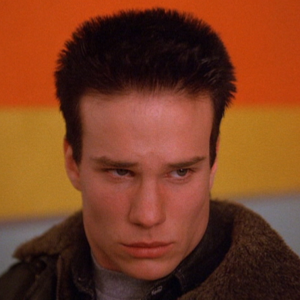
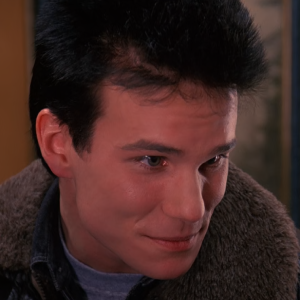
- Updated for episode 10 - Various past updates - Changed James' episode 1 picture - Fixed bug with Bob and Log Lady's entries

diff --git a/data.js b/data.js
@@ -36,7 +36,7 @@ const baseNodes = [
     },
     {
         id: "donna_hayward", label: "Donna Hayward", type: NODE_TYPES.PERSON,
-        images: { 1: "donna_hayward", 2: "donna_hayward_1x02", "4_only": "donna_hayward_1x04", 9: "donna_hayward_2x01" }
+        images: { 1: "donna_hayward", 2: "donna_hayward_1x02", "4_only": "donna_hayward_1x04", 8: "donna_hayward_1x08", 9: "donna_hayward_2x01" }
     },
     {
         id: "james_hurley", label: "James Hurley", type: NODE_TYPES.PERSON,
@@ -44,7 +44,7 @@ const baseNodes = [
     },
     {
         id: "bobby_briggs", label: "Bobby Briggs", type: NODE_TYPES.PERSON,
-        images: { 1: "bobby_briggs", "4_only": "bobby_briggs_1x04" }
+        images: { 1: "bobby_briggs", "4_only": "bobby_briggs_1x04", "8_only": "bobby_briggs_1x08" },
     },
     {
         id: "leland_palmer", label: "Leland Palmer", type: NODE_TYPES.PERSON,
@@ -56,12 +56,12 @@ const baseNodes = [
     },
     {
         id: "pete_martell", label: "Pete Martell", type: NODE_TYPES.PERSON,
-        images: { 1: "pete_martell", "4_only": "pete_martell_1x04" }
+        images: { 1: "pete_martell", "4_only": "pete_martell_1x04", 8: "pete_martell_1x08", 9: "pete_martell_2x01" }
     },
     {
         id: "dr_jacoby", type: NODE_TYPES.PERSON,
         labels: { 1: "Dr. Jacoby", 8: "Dr. Lawrence Jacoby" },
-        images: { 1: "dr_jacoby", 4: "dr_jacoby_1x04", 5: "dr_jacoby_1x05" }
+        images: { 1: "dr_jacoby", 4: "dr_jacoby_1x04", 5: "dr_jacoby_1x05", 8: "dr_jacoby_1x08" }
     },
     {
         id: "johnny_horne", label: "Johnny Horne", type: NODE_TYPES.PERSON,
@@ -77,7 +77,7 @@ const baseNodes = [
     {
         id: "ed_hurley", type: NODE_TYPES.PERSON,
         labels: { 1: "Ed", 2: "Ed Hurley" },
-        images: { "1": "big_ed", "4_only": "big_ed_1x04", "7_only": "big_ed_1x07" }
+        images: { "1": "big_ed", "4_only": "big_ed_1x04", "7_only": "big_ed_1x07", 10: "big_ed_2x02" }
     },
     { id: "mike_nelson", label: "Mike 'Snake'", image: "mike_snake_nelson", type: NODE_TYPES.PERSON },
     {
@@ -88,19 +88,31 @@ const baseNodes = [
         id: "norma_jennings", image: "norma_jennings", type: NODE_TYPES.PERSON,
         labels: { 1: "Norma", 2: "Norma Jennings" },
     },
-    { id: "shelly_johnson", label: "Shelly Johnson", image: "shelly_johnson", type: NODE_TYPES.PERSON },
+    {
+        id: "shelly_johnson", label: "Shelly Johnson", type: NODE_TYPES.PERSON,
+        images: { 1: "shelly_johnson", 8: "shelly_johnson_1x08", 9: "shelly_johnson_2x01" },
+    },
     {
         id: "hank_jennings", type: NODE_TYPES.PERSON,
         labels: { 1: "Hank\n(in prison\nfor manslaughter)", 2: "Hank Jennings\n(in prison\nfor manslaughter)", 4: 'Hank Jennings' },
-        images: { 4: "hank_jennings_mugshot", 5: "hank_jennings", 9: "hank_jennings_2x01" }
+        images: { 4: "hank_jennings_mugshot", 5: "hank_jennings", 8: "hank_jennings_1x08", 9: "hank_jennings_2x01" }
     },
-    { id: "leo_johnson", label: "Leo Johnson", image: "leo_johnson", type: NODE_TYPES.PERSON },
-    { id: "major_briggs", label: "Major Briggs", image: "major_briggs", type: NODE_TYPES.PERSON },
+    {
+        id: "leo_johnson", label: "Leo Johnson", type: NODE_TYPES.PERSON,
+        images: { 1: "leo_johnson", 8: "leo_johnson_1x08", 10: "leo_johnson_2x02" },
+    },
+    {
+        id: "major_briggs", image: "major_briggs", type: NODE_TYPES.PERSON,
+        labels: { 1: "Major Briggs", 10: "Major\nGarland Briggs" }
+    },
     {
         id: "catherine_martell", label: "Catherine Martell\n(née Packard)", type: NODE_TYPES.PERSON,
-        images: { 1: "catherine_martell", "2_only": "catherine_martell_1x02", "6_only": "catherine_martell_1x06" }
+        images: { 1: "catherine_martell", "2_only": "catherine_martell_1x02", "6_only": "catherine_martell_1x06", 8: "catherine_martell_1x08" },
     },
-    { id: "josie_packard", label: "Josie Packard", image: "josie_packard", type: NODE_TYPES.PERSON },
+    {
+        id: "josie_packard", label: "Josie Packard", type: NODE_TYPES.PERSON,
+        images: { 1: "josie_packard", 8: "josie_packard_1x08" },
+    },
     {
         id: "doc_hayward", image: "doc_hayward", type: NODE_TYPES.PERSON,
         labels: { 1: "Doc Hayward", 8: "Doc Will Hayward" }
@@ -108,9 +120,12 @@ const baseNodes = [
     { id: "benjamin_horne", label: "Benjamin Horne", image: "benjamin_horne", type: NODE_TYPES.PERSON },
     {
         id: "audrey_horne", label: "Audrey Horne", type: NODE_TYPES.PERSON,
-        images: { 1: "audrey_horne_pilot", 2: "audrey_horne_1x02", "4_only": "audrey_horne_1x04", 8: "audrey_horne_1x08", 9: "audrey_horne_2x01" }
+        images: { 1: "audrey_horne_pilot", 2: "audrey_horne_1x02", "4_only": "audrey_horne_1x04", 8: "audrey_horne_1x08", 9: "audrey_horne_2x01", 10: "audrey_horne_2x02" }
     },
-    { id: "ronette_pulaski", label: "Ronette Pulaski", image: "ronette_pulaski", type: NODE_TYPES.PERSON },
+    {
+        id: "ronette_pulaski", label: "Ronette Pulaski", type: NODE_TYPES.PERSON,
+        images: { 1: "ronette_pulaski", 9: "ronette_pulaski_2x01" },
+    },
     { id: "fire_walk_with_me", label: "'FIRE WALK WITH ME'", image: "fire_walk_with_me", type: NODE_TYPES.CONCEPT },
     { id: "ten_thousand_cash", label: "$10,000 cash", type: NODE_TYPES.OBJECT },
     { id: "flesh_world", label: "'Flesh World' magazine", image: "flesh_world", type: NODE_TYPES.OBJECT },
@@ -137,7 +152,10 @@ const baseNodes = [
         labels: { 1: "One armed man?", 5: "Phillip Michael Gerard,\nshoe salesman" },
         images: { 1: "one_armed_man", 5: "phillip_michael_gerard" }
     },
-    { id: "harriet_hayward", label: "Harriet Hayward", type: NODE_TYPES.PERSON, image: "harriet_hayward" },
+    {
+        id: "harriet_hayward", label: "Harriet Hayward", type: NODE_TYPES.PERSON,
+        images: { 1: "harriet_hayward", 9: "harriet_hayward_2x01" }
+    },
     {
         id: "eileen_hayward", label: "Eileen Hayward", type: NODE_TYPES.PERSON,
         images: { 1: "eileen_hayward_pilot", 2: "eileen_hayward_1x02" }
@@ -163,13 +181,13 @@ const baseNodes = [
         images: { 4: "jacques_renault", 7: "jacques_renault_1x07" }
     },
     {
-        id: "bob", type: NODE_TYPES.PERSON, episode: "2",
+        id: "bob", type: NODE_TYPES.PERSON, episode: 2,
         labels: { 2: "???", 3: "Bob?" },
-        images: { 2: "bob_1x02", 3: "bob_1x03", 9: "bob_2x01" }
+        images: { 2: "bob_1x02", 3: "bob_1x03", 9: "bob_2x01", 10: "bob_2x02" },
     },
     { id: "hornes_department_store", type: NODE_TYPES.PLACE, episode: 2, label: "Horne's\ndepartment store\n(perfume counter)" },
     {
-        id: "log_lady", type: NODE_TYPES.PERSON, episode: "2",
+        id: "log_lady", type: NODE_TYPES.PERSON, episode: 2,
         labels: { 2: "Log Lady", 6: "Margaret\nthe Log Lady" },
         images: { 2: "log_lady", "4_only": "log_lady_1x04" }
     },
@@ -240,7 +258,8 @@ const baseNodes = [
     { id: "red_drapes_ad", label: "Flesh World\n'red drapes' ad", image: "red_drapes_ad", type: NODE_TYPES.CONCEPT, episode: 6 },
     { id: "teen_investigators", label: "Teen Murder\nInvestigation Team", type: NODE_TYPES.CONCEPT, episode: 6 },
     {
-        id: "owls", image: "owl", type: NODE_TYPES.CONCEPT, episode: 6,
+        id: "owls", type: NODE_TYPES.CONCEPT, episode: 6,
+        images: { 6: "owl", 10: "owl_2x02" },
         labels: { 6: "Owls", 9: "'The owls are\nnot what they seem'" }
     },
     {
@@ -262,16 +281,27 @@ const baseNodes = [
     { id: "giant", label: "???", image: "giant", type: NODE_TYPES.PERSON, episode: 9 },
     { id: "man_smiling_bag", label: "'A man in a\nsmiling bag'", image: "smiling_bag", type: NODE_TYPES.CONCEPT, episode: 9 },
     { id: "without_chemicals_points", label: "'Without chemicals,\nhe points'", type: NODE_TYPES.CONCEPT, episode: 9 },
+    { id: "coopers_ring", label: "Ring", image: "coopers_ring", type: NODE_TYPES.OBJECT, episode: 9 },
     { id: "leo_hungry_horse", label: "'Leo locked inside\nhungry horse'", type: NODE_TYPES.CONCEPT, episode: 9 },
     { id: "beth_ferguson", label: "Beth Ferguson", type: NODE_TYPES.PERSON, episode: 9 },
     { id: "rug_shadow", label: "Dream about\nthe rug?", image: "rug_shadow", type: NODE_TYPES.CONCEPT, episode: 9 },
     { id: "leos_duster", label: "Duster", type: NODE_TYPES.OBJECT, episode: 9 },
     { id: "leos_boots", label: "Hidden boots\n& cocaine", image: "leos_boots_cocaine", type: NODE_TYPES.OBJECT, episode: 9 },
     { id: "meals_wheels_note", label: "'LOOK INTO THE\nMEALS ON WHEELS'", image: "meals_wheels_note", type: NODE_TYPES.OBJECT, episode: 9 },
+    { id: "meals_on_wheels", label: "Meals on Wheels", type: NODE_TYPES.CONCEPT, episode: 9 },
     { id: "fingernail_letter_t", label: "Fingernail\nletter 'T'", type: NODE_TYPES.OBJECT, episode: 9 },
     { id: "paper_scraps", label: "Paper scraps", type: NODE_TYPES.OBJECT, episode: 9 },
-    { id: "hong_kong_man", label: "Man from\nHong Kong?", image: "hong_kong_man", type: NODE_TYPES.PERSON, episode: 9 },
+    {
+        id: "hong_kong_man", label: "Man from\nHong Kong?", type: NODE_TYPES.PERSON, episode: 9,
+        images: { 9: "hong_kong_man", 10: "hong_kong_man_2x02" }
+    },
     { id: "gersten_hayward", label: "Gersten Hayward", image: "gersten_hayward", type: NODE_TYPES.PERSON, episode: 9 },
+    { id: "windom_earle", label: "Windom Earle", type: NODE_TYPES.PERSON, episode: 10 },
+    { id: "mrs_tremond", label: "Mrs. Tremond", image: "mrs_tremond", type: NODE_TYPES.PERSON, episode: 10 },
+    { id: "mrs_tremond_grandson", label: "Magician\nin training", image: "mrs_tremond_grandson", type: NODE_TYPES.PERSON, episode: 10 },
+    { id: "harold_smith", label: "Mr. Smith", type: NODE_TYPES.PERSON, episode: 10, image: "harold_smith" },
+    { id: "mystery_caller", label: "???", type: NODE_TYPES.PERSON, episode: 10 },
+    { id: "deep_space_monitors", label: "Deep Space\nMonitors", type: NODE_TYPES.OBJECT, episode: 10 },
 ];
 
 const baseEdges = [
@@ -383,7 +413,7 @@ const baseEdges = [
         types: { 2: EDGE_TYPES.UNCERTAIN, 4: EDGE_TYPES.CRIME }
     },
     {
-        from: "james_hurley", to: "bookhouse_boys", arrows: "to", episode: 4,
+        from: "james_hurley", to: "bookhouse_boys", arrows: "to", episode: 2,
         labels: { 2: "???", 4: "Member" },
         types: { 2: EDGE_TYPES.UNCERTAIN, 4: EDGE_TYPES.CRIME }
     },
@@ -412,7 +442,7 @@ const baseEdges = [
     },
     { from: "ten_thousand_cash", to: "bobby_leo_cocaine_deal", label: "Intended for", type: EDGE_TYPES.CRIME, arrows: "to", episode: 2 },
     { from: "deputy_hawk", to: "one_armed_man", label: "Followed\nat hospital", type: EDGE_TYPES.OTHER, arrows: "to", episode: 2 },
-    { from: "laura_palmer", to: "norma_jennings", label: "Organized\n'Meals on Wheels'\nprogram with", type: EDGE_TYPES.BUSINESS, episode: 2 },
+    { from: "laura_palmer", to: "norma_jennings", label: "Organized\n'Meals on Wheels'\nprogram with", type: EDGE_TYPES.BUSINESS, episode: 2, last_episode: 8 },
     { from: "dale_cooper", to: "albert_rosenfield", label: "Works with", type: EDGE_TYPES.BUSINESS, episode: 2 },
     { from: "ed_hurley", to: "jacques_renault", label: "Suspects he\nwas drugged by", type: EDGE_TYPES.CRIME, arrows: "to", episode: 2 },
     {
@@ -514,8 +544,9 @@ const baseEdges = [
     { from: "one_armed_man", to: "timber_falls", label: "Staying at", type: EDGE_TYPES.OTHER, episode: 5 },
     { from: "bob", to: "bob_lydecker", label: "???", type: EDGE_TYPES.UNCERTAIN, episode: 5 },
     {
-        from: "audrey_horne", to: "dale_cooper", arrows: "to", episode: 5,
+        from: "audrey_horne", to: "dale_cooper", episode: 5,
         labels: { 5: "Wants to seduce", 7: "Friends?" },
+        _arrows: { 5: "to", 7: null },
         types: { 5: EDGE_TYPES.SECRET_RELATIONSHIP, 7: EDGE_TYPES.FRIENDS }
     },
     { from: "audrey_horne", to: "donna_hayward", label: "Investigating\nmurder together", type: EDGE_TYPES.CRIME, episode: 5 },
@@ -529,7 +560,7 @@ const baseEdges = [
     { from: "waldo", to: "jacques_renault", label: "Owns", arrows: "from", type: EDGE_TYPES.EVIDENCE, episode: 5 },
     { from: "waldo", to: "lydecker_clinic", label: "Treated", arrows: "from", type: EDGE_TYPES.OTHER, episode: 5 },
     {
-        from: "waldo", to: "bite_claw_marks", arrows: "from", episode: 5,
+        from: "waldo", to: "bite_claw_marks", arrows: "to", episode: 5,
         labels: { 5: "Caused?", 7: "Caused" },
         types: { 5: EDGE_TYPES.UNCERTAIN, 7: EDGE_TYPES.EVIDENCE }
     },
@@ -597,7 +628,7 @@ const baseEdges = [
     { from: "life_insurance_policy", to: "josie_packard", label: "Beneficiary", arrows: "to", type: EDGE_TYPES.CRIME, episode: 7 },
     { from: "leo_johnson", to: "laura_palmer", label: "Hurt?", arrows: "to", type: EDGE_TYPES.UNCERTAIN, episode: 7 },
     { from: "teen_investigators", to: "dr_jacoby", label: "Tricked &\nbroke into home of", arrows: "to", type: EDGE_TYPES.CRIME, episode: 7 },
-    { from: "bobby_briggs", to: "james_hurley", label: "Plants cocaine\non the bike of", arrows: "to", type: EDGE_TYPES.CRIME, episode: 7 },
+    { from: "bobby_briggs", to: "james_hurley", label: "Planted cocaine\non the bike of", arrows: "to", type: EDGE_TYPES.CRIME, episode: 7 },
     { from: "lauras_hidden_tape", to: "coconut_stash", label: "Mentioned", arrows: "to", type: EDGE_TYPES.OTHER, episode: 7 },
     { from: "teen_investigators", to: "coconut_stash", label: "Found", arrows: "to", type: EDGE_TYPES.OTHER, episode: 8 },
     { from: "coconut_stash", to: "jacoby_tape", label: "Held", arrows: "to", type: EDGE_TYPES.OTHER, episode: 8 },
@@ -605,21 +636,21 @@ const baseEdges = [
     { from: "teen_investigators", to: "james_heart_necklace", label: "Recovered", arrows: "to", type: EDGE_TYPES.OTHER, episode: 8 },
     { from: "jacoby_attacker", to: "dr_jacoby", label: "Attacked", arrows: "to", type: EDGE_TYPES.CRIME, episode: 8 },
     { from: "waldo", to: "poker_chip", label: "Broke", arrows: "to", type: EDGE_TYPES.EVIDENCE, episode: 8 },
-    { from: "twine_fragments_2", to: "cabin_party", label: "Used at?", type: EDGE_TYPES.UNCERTAIN, episode: 8 },
+    { from: "twine_fragments_2", to: "cabin_party", label: "Used at?", arrows: "to", type: EDGE_TYPES.UNCERTAIN, episode: 8 },
     { from: "jacques_renault", to: "twine_fragments_2", label: "'Laura, she's' all tied up...\nshe liked that'", type: EDGE_TYPES.UNCERTAIN, episode: 8 },
     { from: "mystery_man", to: "fire_walk_with_me", label: "'This guy can really\nlight my F-I-R-E'", type: EDGE_TYPES.UNCERTAIN, episode: 8 },
     { from: "mystery_man", to: "red_corvette", label: "Drives", arrows: "to", type: EDGE_TYPES.EVIDENCE, episode: 8 },
     { from: "leo_johnson", to: "shelly_johnson", label: "Aducted and\ntried to murder", arrows: "to", type: EDGE_TYPES.CRIME, episode: 8 },
     { from: "josie_packard", to: "josie_hank_payment", label: "Paid", arrows: "to", type: EDGE_TYPES.CRIME, episode: 8 },
     { from: "hank_jennings", to: "josie_hank_payment", label: "Paid to", arrows: "from", type: EDGE_TYPES.CRIME, episode: 8 },
-    { from: "josie_hank_payment", to: "hank_murder", label: "For?", type: EDGE_TYPES.UNCERTAIN, episode: 8 },
+    { from: "josie_hank_payment", to: "hank_murder", label: "For?", arrows: "to", type: EDGE_TYPES.UNCERTAIN, episode: 8 },
     { from: "hank_jennings", to: "hank_murder", label: "Committed?", arrows: "to", type: EDGE_TYPES.UNCERTAIN, episode: 8 },
     { from: "josie_packard", to: "hank_murder", label: "Party to?", arrows: "to", type: EDGE_TYPES.UNCERTAIN, episode: 8 },
     { from: "leos_bloody_shirt", to: "jacques_renault", label: "Blood of", arrows: "to", type: EDGE_TYPES.EVIDENCE, episode: 8 },
     { from: "leos_bloody_shirt", to: "cabin_party", label: "Bloodied at", arrows: "to", type: EDGE_TYPES.EVIDENCE, episode: 8 },
     { from: "leo_johnson", to: "bobby_briggs", label: "Attempted murder", arrows: "to", type: EDGE_TYPES.CRIME, episode: 8 },
     { from: "hank_jennings", to: "leo_johnson", label: "Shot", arrows: "to", type: EDGE_TYPES.CRIME, episode: 8 },
-    { from: "hank_jennings", to: "catherine_martell", label: "Called to\nsend to mill", type: EDGE_TYPES.CRIME, episode: 8 },
+    { from: "hank_jennings", to: "catherine_martell", label: "Called to\nsend to mill", arrows: "to", type: EDGE_TYPES.CRIME, episode: 8 },
     { from: "catherine_martell", to: "shelly_johnson", label: "Rescued", arrows: "to", type: EDGE_TYPES.OTHER, episode: 8 },
     { from: "leo_johnson", to: "packard_sawmill", label: "Set fire to", arrows: "to", type: EDGE_TYPES.CRIME, episode: 8 },
     { from: "leland_palmer", to: "jacques_renault", label: "Murdered", arrows: "to", type: EDGE_TYPES.CRIME, episode: 8 },
@@ -633,6 +664,8 @@ const baseEdges = [
     { from: "giant", to: "without_chemicals_points", label: "Told of", arrows: "to", type: EDGE_TYPES.DREAM, episode: 9 },
     { from: "without_chemicals_points", to: "dale_cooper", label: "Told to", arrows: "to", type: EDGE_TYPES.DREAM, episode: 9 },
     { from: "giant", to: "leo_hungry_horse", label: "Told of", arrows: "to", type: EDGE_TYPES.DREAM, episode: 9 },
+    { from: "dale_cooper", to: "coopers_ring", label: "Owned", arrows: "to", type: EDGE_TYPES.OTHER, episode: 9 },
+    { from: "giant", to: "coopers_ring", label: "Taken by", arrows: "from", type: EDGE_TYPES.DREAM, episode: 9 },
     { from: "leo_hungry_horse", to: "dale_cooper", label: "Told to", arrows: "to", type: EDGE_TYPES.DREAM, episode: 9 },
     { from: "giant", to: "owls", label: "Told of", arrows: "to", type: EDGE_TYPES.DREAM, episode: 9 },
     { from: "owls", to: "dale_cooper", label: "Told to", arrows: "to", type: EDGE_TYPES.DREAM, episode: 9 },
@@ -646,6 +679,9 @@ const baseEdges = [
     { from: "leos_boots", to: "drug_trade", label: "Part of", arrows: "to", type: EDGE_TYPES.EVIDENCE, episode: 9 },
     { from: "meals_wheels_note", to: "donna_hayward", label: "Left for", arrows: "to", type: EDGE_TYPES.EVIDENCE, episode: 9 },
     { from: "meals_wheels_note", to: "rr_diner", label: "Left at", arrows: "to", type: EDGE_TYPES.OTHER, episode: 9 },
+    { from: "laura_palmer", to: "meals_on_wheels", label: "Organizer", arrows: "to", type: EDGE_TYPES.BUSINESS, episode: 9 },
+    { from: "norma_jennings", to: "meals_on_wheels", label: "Organizer", arrows: "to", type: EDGE_TYPES.BUSINESS, episode: 9 },
+    { from: "meals_wheels_note", to: "meals_on_wheels", label: "Points at", arrows: "to", type: EDGE_TYPES.EVIDENCE, episode: 9 },
     { from: "albert_rosenfield", to: "coopers_shooter", label: "Sent to investigate", arrows: "to", type: EDGE_TYPES.BUSINESS, episode: 9 },
     { from: "leo_johnson", to: "leo_hungry_horse", label: "Was jailed in\nHungry Horse, Montana", arrows: "to", type: EDGE_TYPES.EVIDENCE, episode: 9 },
     { from: "leo_hungry_horse", to: "teresa_banks", label: "On night of murder", arrows: "to", type: EDGE_TYPES.EVIDENCE, episode: 9 },
@@ -676,4 +712,26 @@ const baseEdges = [
     { from: "gersten_hayward", to: "doc_hayward", label: "Parent/Child", type: EDGE_TYPES.FAMILY, episode: 9 },
     { from: "gersten_hayward", to: "eileen_hayward", label: "Parent/Child", type: EDGE_TYPES.FAMILY, episode: 9 },
     { from: "gersten_hayward", to: "harriet_hayward", label: "Siblings", type: EDGE_TYPES.FAMILY, episode: 9 },
+    { from: "windom_earle", to: "dale_cooper", label: "Former partners", type: EDGE_TYPES.BUSINESS, episode: 10 },
+    { from: "albert_rosenfield", to: "windom_earle", label: "Searching for", arrows: "to", type: EDGE_TYPES.OTHER, episode: 10 },
+    { from: "hong_kong_man", to: "dale_cooper", label: "Watching", arrows: "to", type: EDGE_TYPES.UNCERTAIN, episode: 10 },
+    { from: "mrs_tremond", to: "meals_on_wheels", label: "Serves", arrows: "from", type: EDGE_TYPES.OTHER, episode: 10 },
+    { from: "mrs_tremond", to: "mrs_tremond_grandson", label: "Grandparent/Grandchild", type: EDGE_TYPES.FAMILY, episode: 10 },
+    { from: "mrs_tremond", to: "harold_smith", label: "Neighbor", type: EDGE_TYPES.OTHER, episode: 10 },
+    { from: "harold_smith", to: "meals_on_wheels", label: "Serves", arrows: "from", type: EDGE_TYPES.OTHER, episode: 10 },
+    { from: "log_lady", to: "major_briggs", label: "'Deliver the message'", arrows: "to", type: EDGE_TYPES.OTHER, episode: 10 },
+    { from: "harry_truman", to: "hank_jennings", label: "Childhood friends", type: EDGE_TYPES.FRIENDS, episode: 10 },
+    { from: "hank_jennings", to: "bookhouse_boys", label: "Former member", arrows: "to", type: EDGE_TYPES.CRIME, episode: 10 },
+    {
+        from: "leland_palmer", to: "bob", label: "My grandfather's summer house on Pearl Lakes...\nHe lived right next door. I was just a little boy.",
+        arrows: "to", type: EDGE_TYPES.UNCERTAIN, episode: 10
+    },
+    { from: "mystery_caller", to: "lucy", label: "Calls sheriff's office", arrows: "to", type: EDGE_TYPES.UNCERTAIN, episode: 10 },
+    { from: "laura_palmer", to: "one_eyed_jacks", label: "Worked at for\none weekend", arrows: "to", type: EDGE_TYPES.BUSINESS, episode: 10 },
+    { from: "major_briggs", to: "deep_space_monitors", label: "Maintains", arrows: "to", type: EDGE_TYPES.BUSINESS, episode: 10 },
+    { from: "deep_space_monitors", to: "owls", label: "Transmitted when\nCooper was shot", arrows: "to", type: EDGE_TYPES.EVIDENCE, episode: 10 },
+    { from: "harold_smith", to: "donna_hayward", label: "Arranges to meet", arrows: "to", type: EDGE_TYPES.OTHER, episode: 10 },
+    { from: "madeleine_ferugson", to: "bob", label: "Hallucinated?", arrows: "to", type: EDGE_TYPES.DREAM, episode: 10 },
+    { from: "bob", to: "owls", label: "???", type: EDGE_TYPES.DREAM, episode: 10 },
+    { from: "blackie", to: "audrey_horne", label: "Kidnapped", arrows: "to", type: EDGE_TYPES.CRIME, episode: 10 },
 ];

diff --git a/index.html b/index.html
@@ -93,6 +93,7 @@
                         <option value="7">1x07 "Realization Time"</option>
                         <option value="8">1x08 "The Last Evening"</option>
                         <option value="9">2x01 "May the Giant Be with You"</option>
+                        <option value="10">2x02 "Coma"</option>
                     </select>
                 </div>
                 <div>
